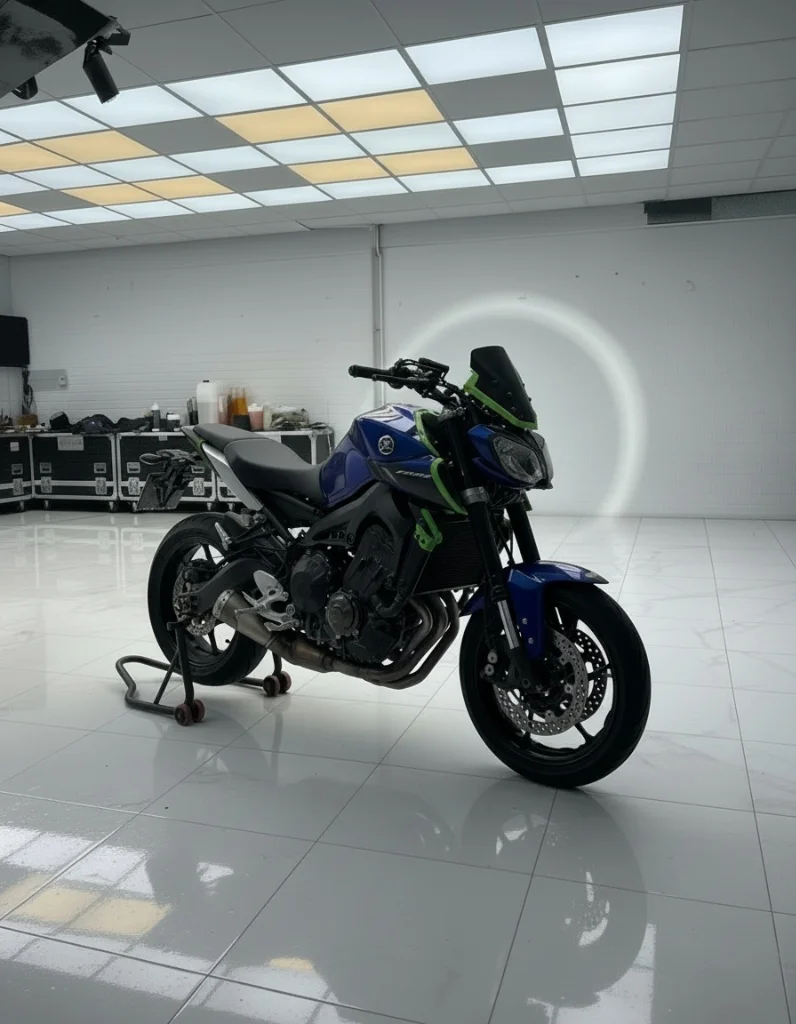
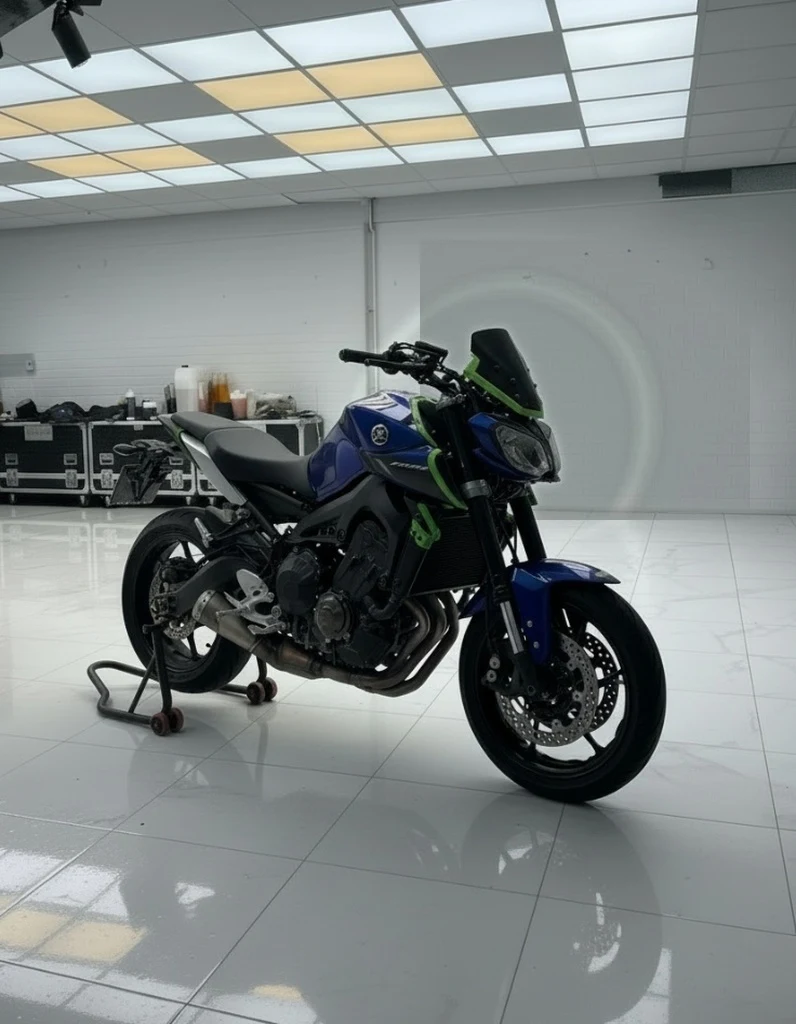
feat(showcase): harmonize MT-09 before/after alignment, wall illumination, and add quick view toggles

diff --git a/src/components/landing/BeforeAfterSlider.tsx b/src/components/landing/BeforeAfterSlider.tsx
@@ -491,6 +491,20 @@ export function BeforeAfterSlider({
               />
             </div>
 
+            {/* Sol Köşe Rozeti (Sonra) */}
+            <div className="absolute top-3 left-3 pointer-events-none z-10">
+              <span className="px-2.5 py-1 rounded-md bg-black/75 text-white font-mono text-[10px] uppercase tracking-wider backdrop-blur-md border border-white/15 shadow-sm">
+                Sonra // Temiz
+              </span>
+            </div>
+
+            {/* Sağ Köşe Rozeti (Önce) */}
+            <div className="absolute top-3 right-3 pointer-events-none z-10">
+              <span className="px-2.5 py-1 rounded-md bg-black/75 text-white font-mono text-[10px] uppercase tracking-wider backdrop-blur-md border border-white/15 shadow-sm">
+                Önce // Ham
+              </span>
+            </div>
+
             {/* Bölücü Çizgi (Royal Blue Işık) */}
             <div
               className="absolute top-0 bottom-0 w-[3px] pointer-events-none bg-[#1E3A8A] shadow-[0_0_14px_rgba(30,58,138,0.9)]"
@@ -515,6 +529,49 @@ export function BeforeAfterSlider({
               aria-label={`${activeItem.title} öncesi ve sonrası karşılaştırma kaydırıcısı`}
               className="absolute inset-0 opacity-0 cursor-ew-resize w-full h-full"
             />
+          </div>
+
+          {/* Hızlı Karşılaştırma Modu Butonları (Pürüzsüz İnceleme) */}
+          <div className="flex flex-wrap items-center justify-center gap-2 mt-3.5">
+            <button
+              type="button"
+              onClick={() => setSliderPosition(0)}
+              className={`btn-mechanical px-3 py-1.5 rounded-lg text-[11px] font-medium border transition cursor-pointer ${
+                sliderPosition === 0
+                  ? 'bg-[#1E3A8A] text-white border-[#1E3A8A] shadow-xs'
+                  : isCream
+                    ? 'bg-white/80 border-black/10 text-zinc-700 hover:text-black'
+                    : 'bg-black/40 border-white/10 text-zinc-400 hover:text-white'
+              }`}
+            >
+              Ham Hali (Önce)
+            </button>
+            <button
+              type="button"
+              onClick={() => setSliderPosition(50)}
+              className={`btn-mechanical px-3 py-1.5 rounded-lg text-[11px] font-medium border transition cursor-pointer ${
+                sliderPosition === 50
+                  ? 'bg-[#1E3A8A] text-white border-[#1E3A8A] shadow-xs'
+                  : isCream
+                    ? 'bg-white/80 border-black/10 text-zinc-700 hover:text-black'
+                    : 'bg-black/40 border-white/10 text-zinc-400 hover:text-white'
+              }`}
+            >
+              ⟺ 50/50 Bölünmüş Kaydırıcı
+            </button>
+            <button
+              type="button"
+              onClick={() => setSliderPosition(100)}
+              className={`btn-mechanical px-3 py-1.5 rounded-lg text-[11px] font-medium border transition cursor-pointer ${
+                sliderPosition === 100
+                  ? 'bg-[#1E3A8A] text-white border-[#1E3A8A] shadow-xs'
+                  : isCream
+                    ? 'bg-white/80 border-black/10 text-zinc-700 hover:text-black'
+                    : 'bg-black/40 border-white/10 text-zinc-400 hover:text-white'
+              }`}
+            >
+              Atölye Çıkışı (Sonra)
+            </button>
           </div>
 
           {/* Açıklama Metni */}
